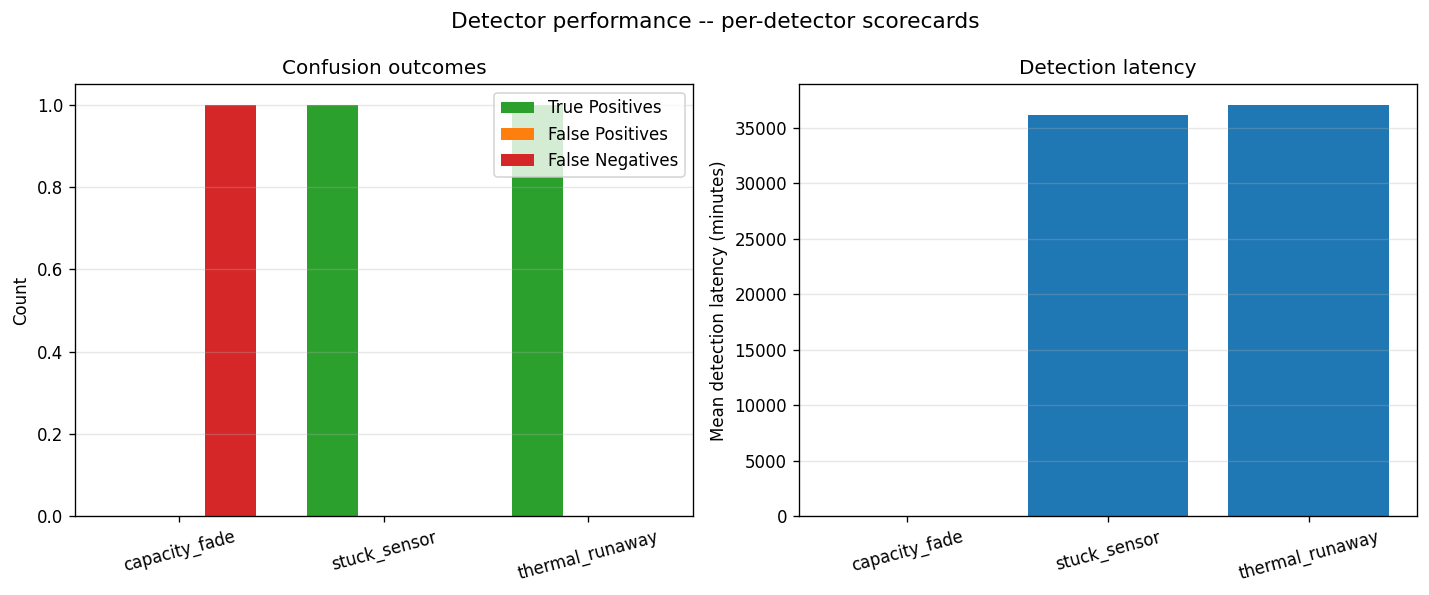
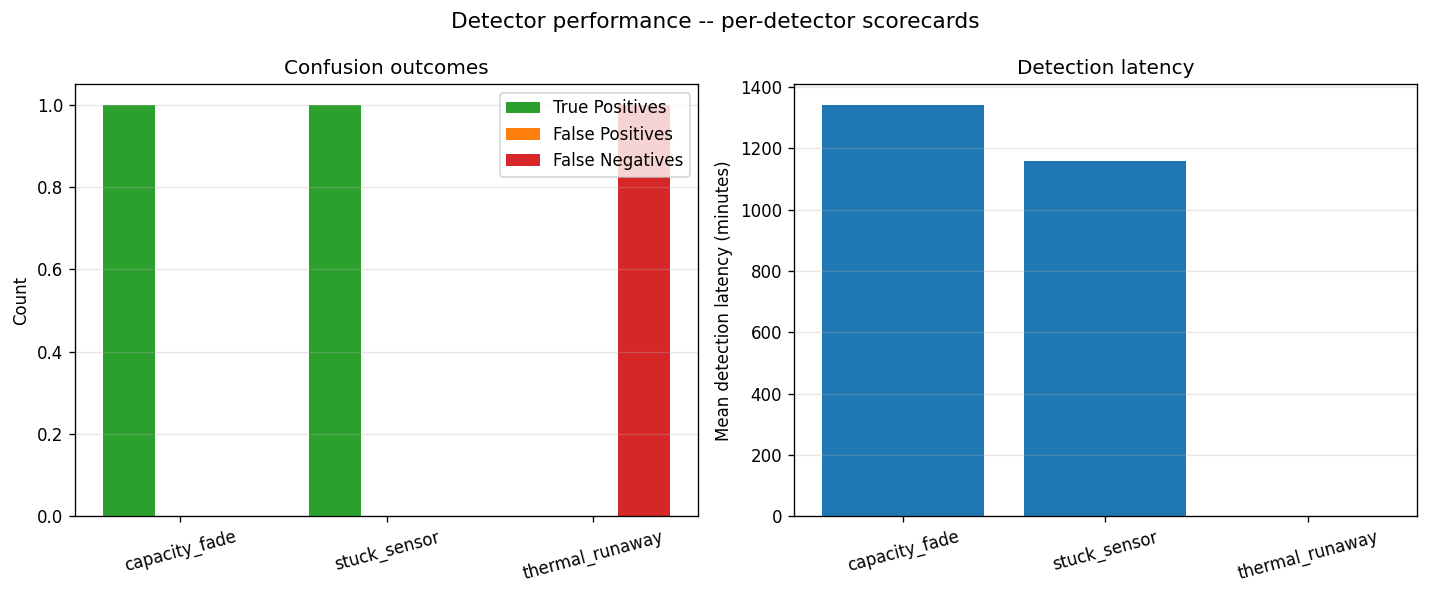
Fix capacity-fade scenario dates; fill README design decisions; add interview-prep gitignore

diff --git a/README.md b/README.md
@@ -6,9 +6,19 @@ A simulated satellite constellation and the data platform that operates it.
 
 ## Status
 
-🚧 Under active construction. See [docs/PLAN.md](docs/PLAN.md) for the build plan.
+Feature-complete through Sprint 2. See [docs/PLAN.md](docs/PLAN.md) for the
+full build plan and [docs/PROMPT_LEDGER.md](docs/PROMPT_LEDGER.md) for the
+build log.
 
 ## Quick start
+
+```bash
+make demo-full   # full demo: stack + sim + consume + transform + detect
+open http://localhost:3000   # Grafana dashboards
+make stop        # tear down
+```
+
+Or step-by-step:
 
 ```bash
 make demo    # bring up the full stack
@@ -115,13 +125,68 @@ all three dashboards have populated panels.
 
 ## Design decisions
 
-To be filled in as decisions are made and defended. Sections planned:
+### Why DuckDB (and not ClickHouse)
 
-- Why DuckDB (and not ClickHouse)
-- Why dbt against Parquet (and not streaming SQL)
-- Per-subsystem detection method justification
-- Partitioning scheme rationale
-- Sim-clock vs wall-clock separation
+ClickHouse is the better production OLAP engine for sustained high-throughput
+queries. But this project's scale is 15 satellites at 1 Hz = 15 msgs/sec.
+DuckDB is embedded, zero-ops, and reads Parquet directly from object storage.
+An interviewer can `make demo-full` on their laptop without provisioning a
+database server. ClickHouse would be the right upgrade if message rate grew
+10-100x; DuckDB's ceiling is higher than this project will hit.
+
+### Why dbt against Parquet (and not streaming SQL)
+
+dbt is batch-native. Streaming SQL (ksqlDB, Flink SQL) would let us compute
+rolling aggregates in real time. But the telemetry archive is Parquet on
+object storage, and the transformations are analytical (aggregations, joins,
+window functions) not event-driven. dbt-duckdb reads the Parquet directly;
+the output marts land back as Parquet. The entire transformation layer is a
+SQL project with version-controlled models, declarative tests, and a
+`dbt run` that an interviewer can invoke without understanding streaming
+infrastructure. Streaming SQL would be the right choice if detection latency
+mattered at the sub-minute level; at the per-minute mart grain it doesn't.
+
+### Per-subsystem detection method justification
+
+One method per fault, not one method for all:
+
+- **CUSUM** for capacity fade. The signal is slow drift buried in orbital
+  noise. CUSUM accumulates evidence of a sustained mean shift; Z-scores
+  absorb drift into their standard deviation and miss it.
+- **Cross-channel residual** for stuck sensors. The reading is plausible
+  in isolation; what breaks is the correlation with the heat-balance model.
+  Threshold and Z-score detectors both miss this. The residual between
+  predicted and actual temperature change catches it cleanly.
+- **Threshold + slope** for thermal runaway. The operational limit is
+  known (35 C bus ceiling). ML is not the answer to every problem. The
+  slope check suppresses false positives from normal sunlit warming.
+
+The variety is deliberate: it demonstrates method selection, not toolkit
+familiarity.
+
+### Partitioning scheme rationale
+
+`sat_id=X/date=Y/hour=HH/part-NNNN.parquet` (Hive-style). Defense:
+
+- `sat_id` is the most common filter (per-sat queries dominate ops).
+- `date` + `hour` together give time-pruning for both daily and intra-day
+  queries without the file-count explosion of per-minute partitions.
+- Hive layout is natively understood by DuckDB, Spark, ClickHouse, Athena.
+  No custom reader needed.
+
+### Sim-clock vs wall-clock separation
+
+`SimClock` is the single most important architectural decision. Every
+component that needs "what time is it in the sim" reads from `SimClock.now`.
+Wall-clock time (`time.time()`, `datetime.now()`) is forbidden downstream.
+
+This lets the same producer code drive:
+- **FAST mode**: generate a week of telemetry in 5 minutes of wall time.
+- **REALTIME mode**: 1 sim-second per 1 wall-second for the live demo.
+
+The separation is enforced by the deadline-based tick scheduler (not naive
+sleep-after-tick), which absorbs work done between ticks so wall-time
+tracks sim-time under load.
 
 ## Project context
 
